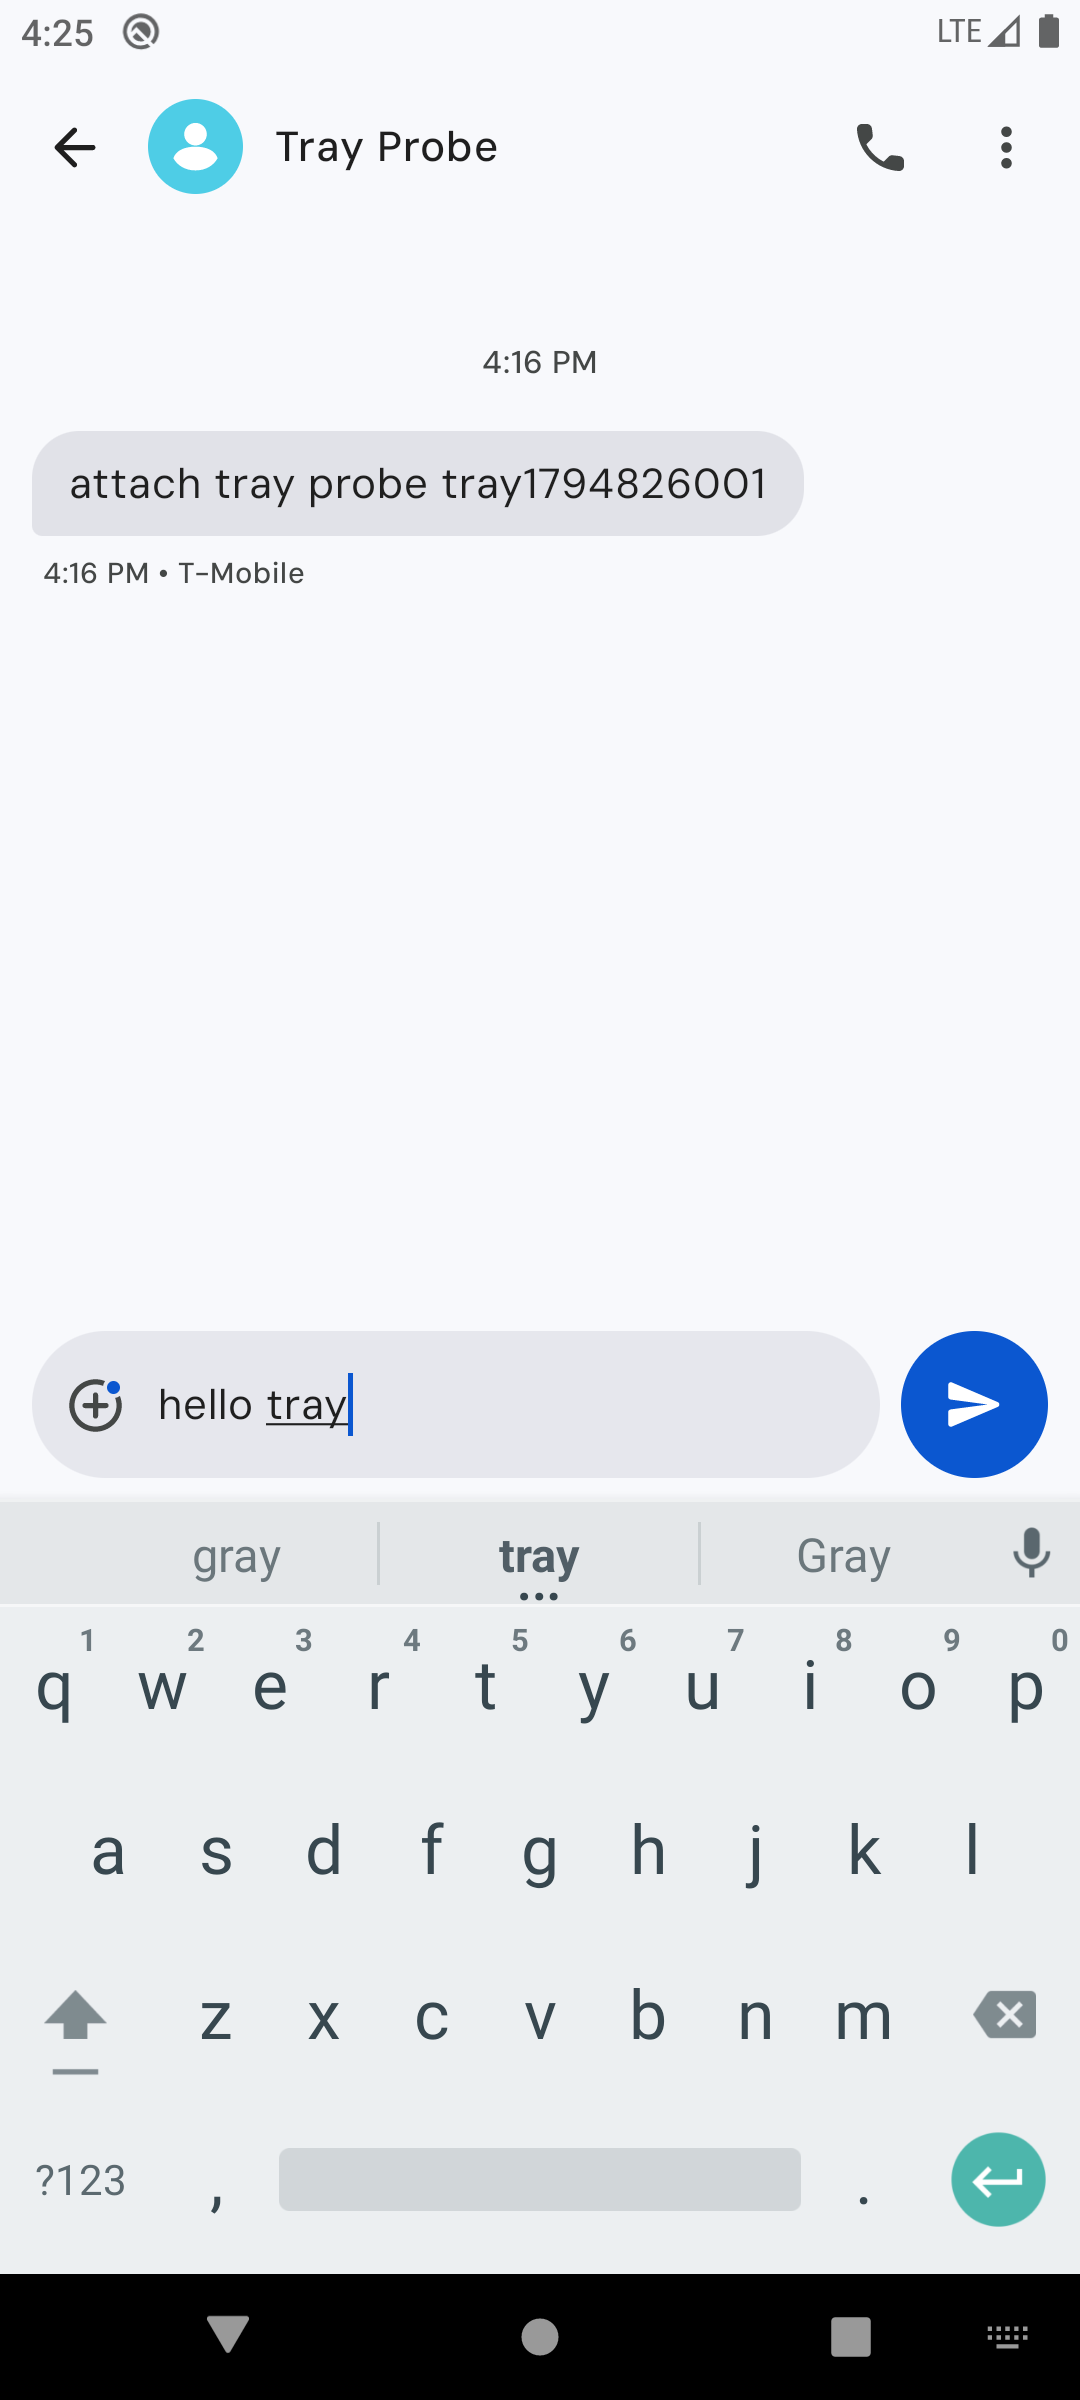
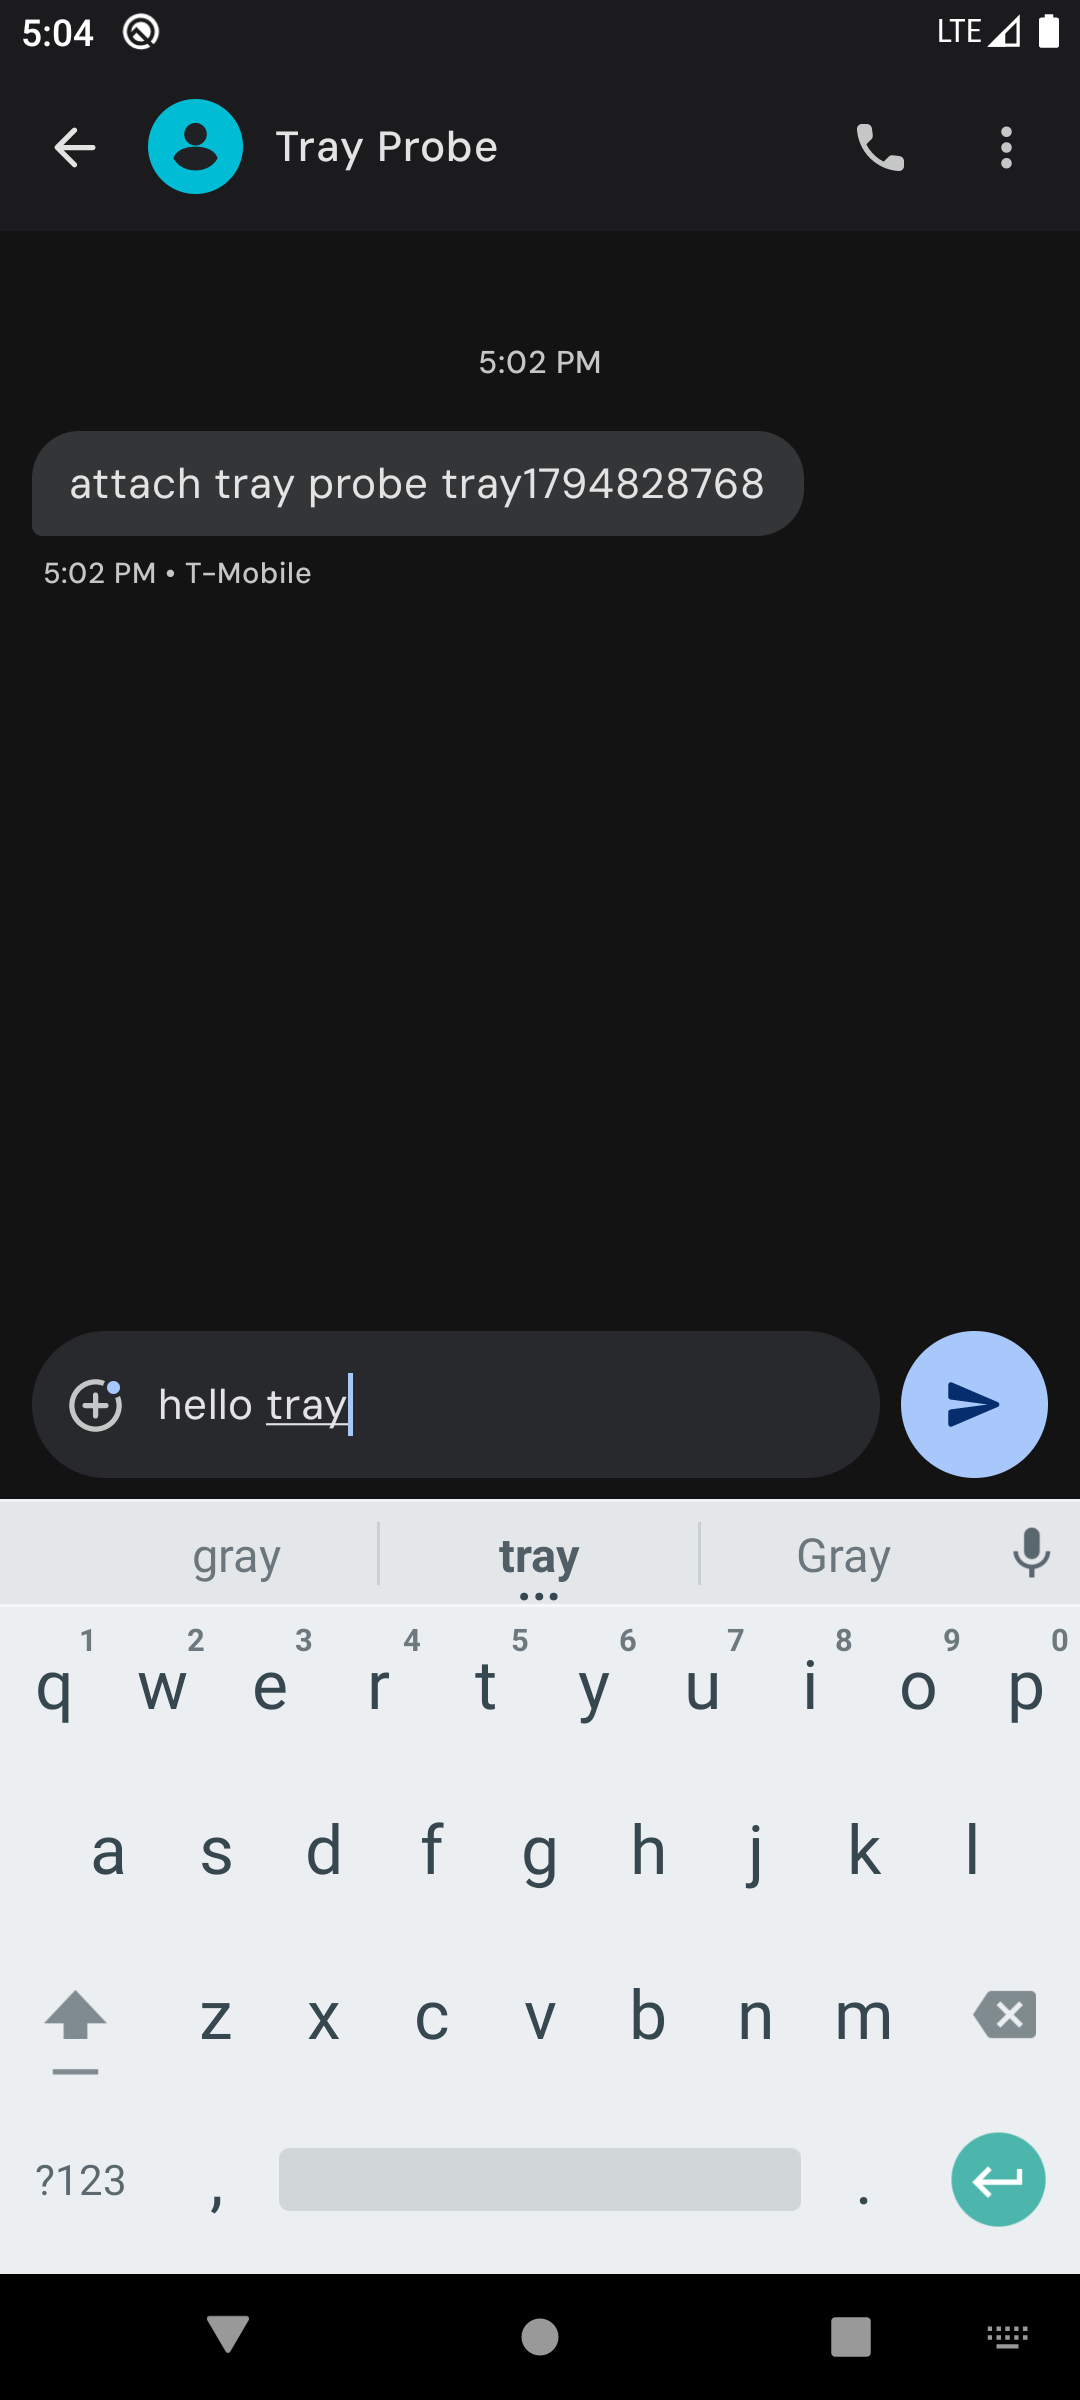
fix: the tray's colour, corners and a camera tap that crashed
- The tray is back on the composer's own strip (chatBar) rather than a
  separate tonal container, and tile corners are half the radius, so the
  panel reads as part of the chat bar again.
- Each tile's icon carries one of the scheme's three accents, cycled, so
  a wallpaper palette keeps the icons related without a paint chart.
- Tapping Camera on a device with no camera app threw
  ActivityNotFoundException and killed the chat. Every external picker now
  launches through launchOrExplain, which explains the missing app instead.
  LaunchGuardWiringTest holds all four launchers inside the guard, and the
  regression script taps Camera and asserts the composer survives.

diff --git a/app/src/main/java/com/anindra/messages/ui/AttachTray.kt b/app/src/main/java/com/anindra/messages/ui/AttachTray.kt
@@ -17,6 +17,7 @@ import androidx.compose.foundation.interaction.MutableInteractionSource
 import androidx.compose.foundation.interaction.collectIsPressedAsState
 import androidx.compose.runtime.getValue
 import androidx.compose.runtime.remember
+import androidx.compose.ui.graphics.Color
 import androidx.compose.ui.graphics.graphicsLayer
 import com.anindra.messages.ui.theme.LocalReduceMotion
 import com.anindra.messages.ui.theme.Motion
@@ -90,7 +91,7 @@ internal object AttachTrayMetrics {
 
     /** Icon size and corner radius, as fractions of the tile they sit in. */
     const val ICON_FRACTION = 0.24f
-    const val RADIUS_FRACTION = 0.214f
+    const val RADIUS_FRACTION = 0.107f
 
     private const val UNITS = REFERENCE_CAMERA_DP + REFERENCE_TILE_DP * COLUMNS
 
@@ -126,12 +127,15 @@ internal fun AttachTray(
     modifier: Modifier = Modifier
 ) {
     val colors = MaterialTheme.colorScheme
+    // One accent per tile, cycled from the scheme's three so a dynamic palette
+    // keeps them related instead of turning the tray into a paint chart.
+    val accents = listOf(colors.primary, colors.tertiary, colors.secondary)
     Column(
         modifier
             .fillMaxWidth()
             // The same strip the composer sits in, so the tray reads as the
             // keyboard's slot rather than a card floating over the chat.
-            .background(colors.surfaceContainer)
+            .background(colors.chatBar)
     ) {
         BoxWithConstraints(
             Modifier
@@ -150,22 +154,26 @@ internal fun AttachTray(
                     icon = cameraIcon,
                     width = sizes.cameraWidth,
                     height = sizes.cameraHeight,
-                    onClick = onCamera
+                    onClick = onCamera,
+                    iconTint = accents[0]
                 )
                 Column(verticalArrangement = Arrangement.spacedBy(sizes.gap)) {
-                    actions.chunked(AttachTrayMetrics.COLUMNS).forEach { row ->
-                        Row(horizontalArrangement = Arrangement.spacedBy(sizes.gap)) {
-                            row.forEach { action ->
-                                AttachTile(
-                                    label = action.label,
-                                    icon = action.icon,
-                                    width = sizes.tile,
-                                    height = sizes.tileHeight,
-                                    onClick = action.onClick
-                                )
+                    actions.chunked(AttachTrayMetrics.COLUMNS)
+                        .forEachIndexed { rowIndex, row ->
+                            Row(horizontalArrangement = Arrangement.spacedBy(sizes.gap)) {
+                                row.forEachIndexed { column, action ->
+                                    val index = rowIndex * AttachTrayMetrics.COLUMNS + column
+                                    AttachTile(
+                                        label = action.label,
+                                        icon = action.icon,
+                                        width = sizes.tile,
+                                        height = sizes.tileHeight,
+                                        onClick = action.onClick,
+                                        iconTint = accents[(index + 1) % accents.size]
+                                    )
+                                }
                             }
                         }
-                    }
                 }
             }
         }
@@ -180,7 +188,8 @@ internal fun AttachTile(
     width: Dp,
     height: Dp,
     onClick: () -> Unit,
-    modifier: Modifier = Modifier
+    modifier: Modifier = Modifier,
+    iconTint: Color = Color.Unspecified
 ) {
     val colors = MaterialTheme.colorScheme
     val reduceMotion = LocalReduceMotion.current
@@ -211,7 +220,7 @@ internal fun AttachTile(
             Icon(
                 icon,
                 contentDescription = null,
-                tint = colors.onSurface,
+                tint = if (iconTint == Color.Unspecified) colors.onSurface else iconTint,
                 modifier = Modifier
                     .size(minOf(width, height) * AttachTrayMetrics.ICON_FRACTION)
                     .offset(y = -(height * AttachTrayMetrics.ICON_LIFT))

diff --git a/app/src/main/java/com/anindra/messages/ui/ChatScreen.kt b/app/src/main/java/com/anindra/messages/ui/ChatScreen.kt
@@ -1231,6 +1231,17 @@ fun ChatScreen(
         }
     }
 
+    // A device with no camera app, or no document picker, throws instead of
+    // opening anything: an unhandled ActivityNotFoundException crashed the chat
+    // the moment the Camera tile was tapped.
+    fun launchOrExplain(messageRes: Int, launch: () -> Unit) {
+        try {
+            launch()
+        } catch (_: android.content.ActivityNotFoundException) {
+            Toast.makeText(context, context.getString(messageRes), Toast.LENGTH_SHORT).show()
+        }
+    }
+
     val locationPermissionLauncher = rememberLauncherForActivityResult(
         ActivityResultContracts.RequestMultiplePermissions()
     ) { granted ->
@@ -2003,7 +2014,9 @@ fun ChatScreen(
                             cameraFileUri = FileProvider.getUriForFile(
                                 context, "${context.packageName}.fileprovider", file
                             )
-                            cameraLauncher.launch(cameraFileUri!!)
+                            launchOrExplain(R.string.chat_camera_unavailable) {
+                                cameraLauncher.launch(cameraFileUri!!)
+                            }
                         },
                         actions = listOf(
                             AttachAction(
@@ -2011,16 +2024,20 @@ fun ChatScreen(
                                 icon = Icons.Rounded.Image
                             ) {
                                 attachOpen = false
-                                galleryLauncher.launch(
-                                    PickVisualMediaRequest(ActivityResultContracts.PickVisualMedia.ImageOnly)
-                                )
+                                launchOrExplain(R.string.chat_gallery_unavailable) {
+                                    galleryLauncher.launch(
+                                        PickVisualMediaRequest(ActivityResultContracts.PickVisualMedia.ImageOnly)
+                                    )
+                                }
                             },
                             AttachAction(
                                 label = stringResource(R.string.chat_media_audio),
                                 icon = Icons.Rounded.Audiotrack
                             ) {
                                 attachOpen = false
-                                audioLauncher.launch(arrayOf("audio/*"))
+                                launchOrExplain(R.string.chat_gallery_unavailable) {
+                                    audioLauncher.launch(arrayOf("audio/*"))
+                                }
                             },
                             AttachAction(
                                 label = stringResource(R.string.chat_media_location),
@@ -2043,7 +2060,9 @@ fun ChatScreen(
                                 icon = Icons.Rounded.Person
                             ) {
                                 attachOpen = false
-                                contactLauncher.launch(null)
+                                launchOrExplain(R.string.chat_contact_unavailable) {
+                                    contactLauncher.launch(null)
+                                }
                             }
                         )
                     )

diff --git a/app/src/test/java/com/anindra/messages/ui/LaunchGuardWiringTest.kt b/app/src/test/java/com/anindra/messages/ui/LaunchGuardWiringTest.kt
@@ -1,0 +1,59 @@
+package com.anindra.messages.ui
+
+import java.io.File
+import org.junit.Assert.assertTrue
+import org.junit.Test
+
+/**
+ * The tray opens other apps: the camera, the photo picker, the document picker,
+ * the contact picker. A device without one of those throws
+ * `ActivityNotFoundException` from `launch()` itself, and an unguarded launch
+ * crashed the chat the moment the Camera tile was tapped on an AVD whose camera
+ * app had been removed.
+ */
+class LaunchGuardWiringTest {
+
+    private val chat: String by lazy { locate("ui/ChatScreen.kt") }
+
+    @Test
+    fun everyExternalPickerIsLaunchedThroughTheGuard() {
+        for (launcher in listOf("cameraLauncher", "galleryLauncher", "audioLauncher",
+                                "contactLauncher")) {
+            val call = Regex(
+                "launchOrExplain\\([^)]*\\)\\s*\\{[\\s\\S]{0,200}?$launcher\\.launch\\("
+            )
+            assertTrue(
+                "$launcher must be launched inside launchOrExplain, or a device without " +
+                    "that app takes the chat down",
+                call.containsMatchIn(chat)
+            )
+        }
+    }
+
+    @Test
+    fun theGuardCatchesTheMissingActivity() {
+        assertTrue(
+            "the guard must catch the missing-app exception",
+            chat.contains("catch (_: android.content.ActivityNotFoundException)")
+        )
+    }
+
+    @Test
+    fun eachMissingAppExplainsItself() {
+        for (message in listOf("chat_camera_unavailable", "chat_gallery_unavailable",
+                               "chat_contact_unavailable")) {
+            assertTrue(
+                "$message must be shown when the app is missing",
+                chat.contains("R.string.$message")
+            )
+        }
+    }
+
+    private fun locate(relative: String): String {
+        val app = generateSequence(File("").absoluteFile) { it.parentFile }
+            .map { File(it, "app") }
+            .firstOrNull { File(it, "src").isDirectory }
+            ?: error("app/src not found")
+        return File(app, "src/main/java/com/anindra/messages/$relative").readText()
+    }
+}
